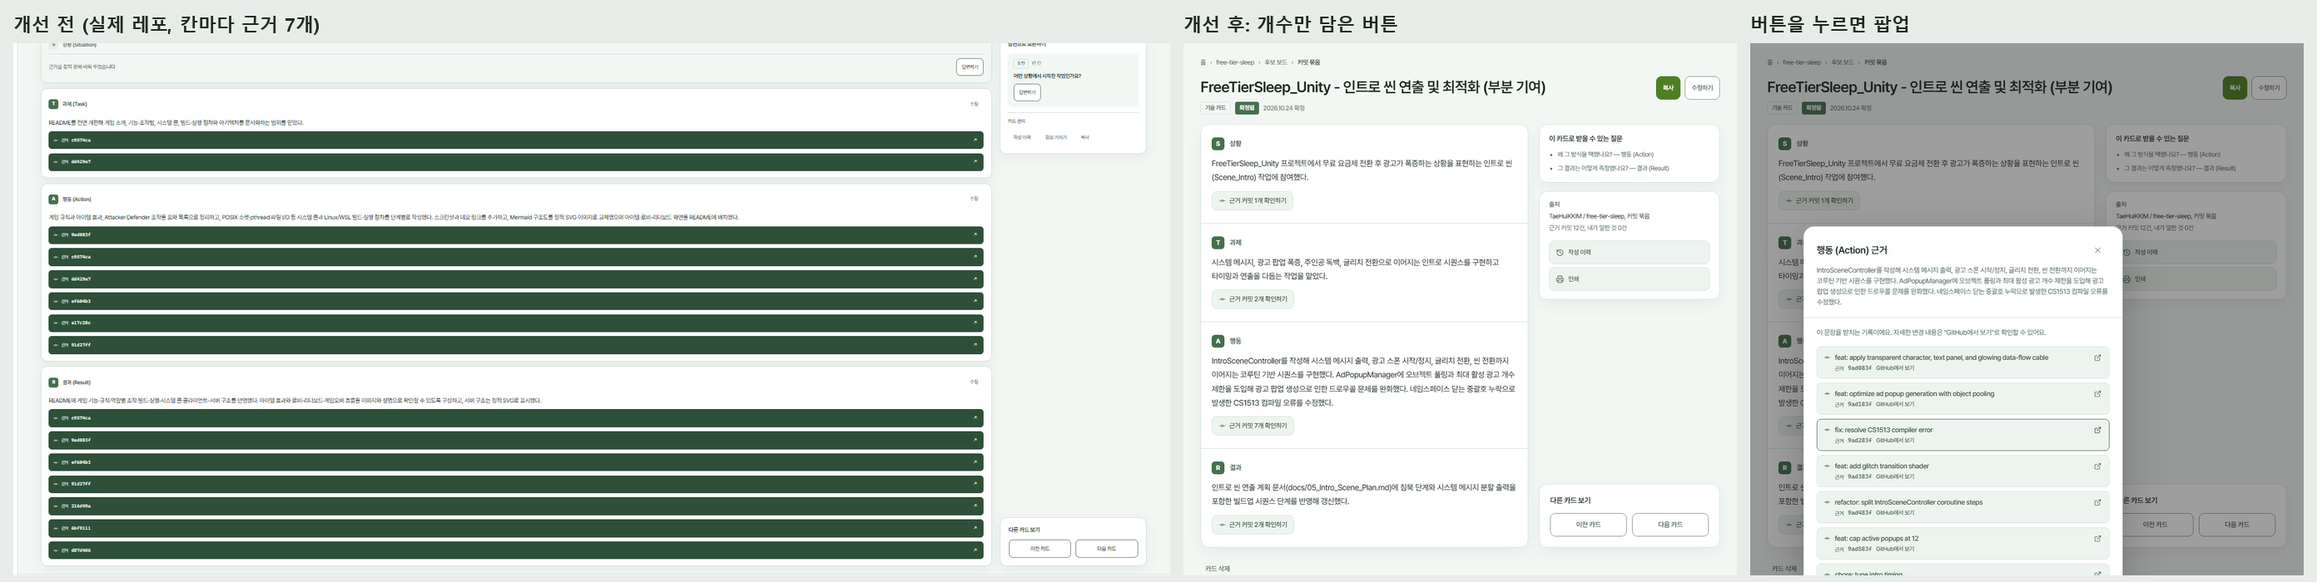
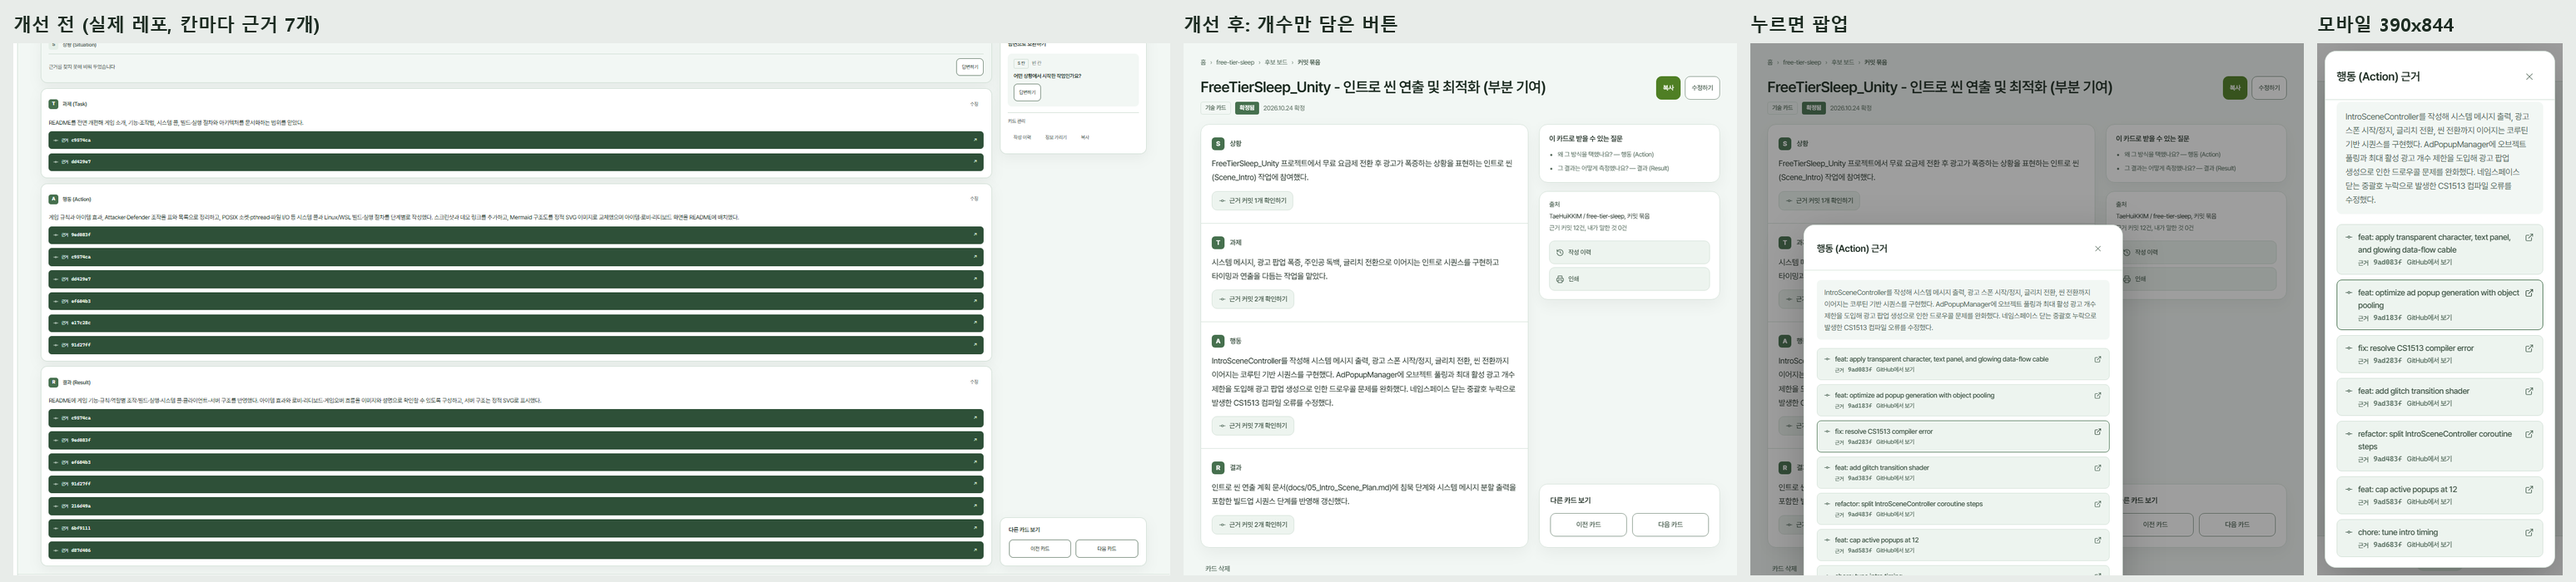
fix(fe): 근거 팝업의 안내 문구를 빼고 문장을 본문으로 옮겨 가로 폰에서도 목록이 보이게 하기

diff --git a/frontend/src/components/ui/index.tsx b/frontend/src/components/ui/index.tsx
@@ -145,8 +145,9 @@ export function EvidenceList({ items, label, sentence }: { items: EvidenceT[]; l
       </button>
       <div className="evidence-print">{items.map((e, i) => <EvidenceStrip key={i} e={e} />)}</div>
       {open && (
-        <Modal title={label ? `${label} 근거` : '근거'} sub={sentence ?? undefined} width={600} onClose={() => setOpen(false)}>
-          <p className="evidence-dialog__lead">이 문장을 받치는 기록이에요. 자세한 변경 내용은 "GitHub에서 보기"로 확인할 수 있어요.</p>
+        <Modal title={label ? `${label} 근거` : '근거'} width={600} onClose={() => setOpen(false)}>
+          {/* 문장은 본문 맨 위에 두어 근거 목록과 같이 스크롤된다 — 머리에 고정하면 가로 폰에서 목록 자리가 거의 없다 */}
+          {sentence && <p className="evidence-dialog__sentence">{sentence}</p>}
           <div className="evidence-dialog__list">{items.map((e, i) => <EvidenceStrip key={i} e={e} />)}</div>
         </Modal>
       )}

diff --git a/frontend/src/styles/guidance.css b/frontend/src/styles/guidance.css
@@ -66,7 +66,7 @@
 .evidence-open svg { color: var(--evidence-commit-label); }
 .evidence-open:hover { border-color: var(--border-selected); }
 .evidence-print { display: none; }
-.evidence-dialog__lead { font-size: 13px; line-height: 20px; color: var(--text-secondary); }
+.evidence-dialog__sentence { font-size: 13.5px; line-height: 22px; color: var(--text-secondary); padding: 12px 14px; border-radius: var(--radius-md); background: var(--bg-paper); }
 .evidence-dialog__list { display: flex; flex-direction: column; gap: 8px; }
 @media (max-width: 767px) { .evidence-open { align-self: stretch; justify-content: center; min-height: var(--control-touch-size); } }
 @media print { .evidence-open { display: none; } .evidence-print { display: flex; flex-direction: column; gap: 6px; } }
